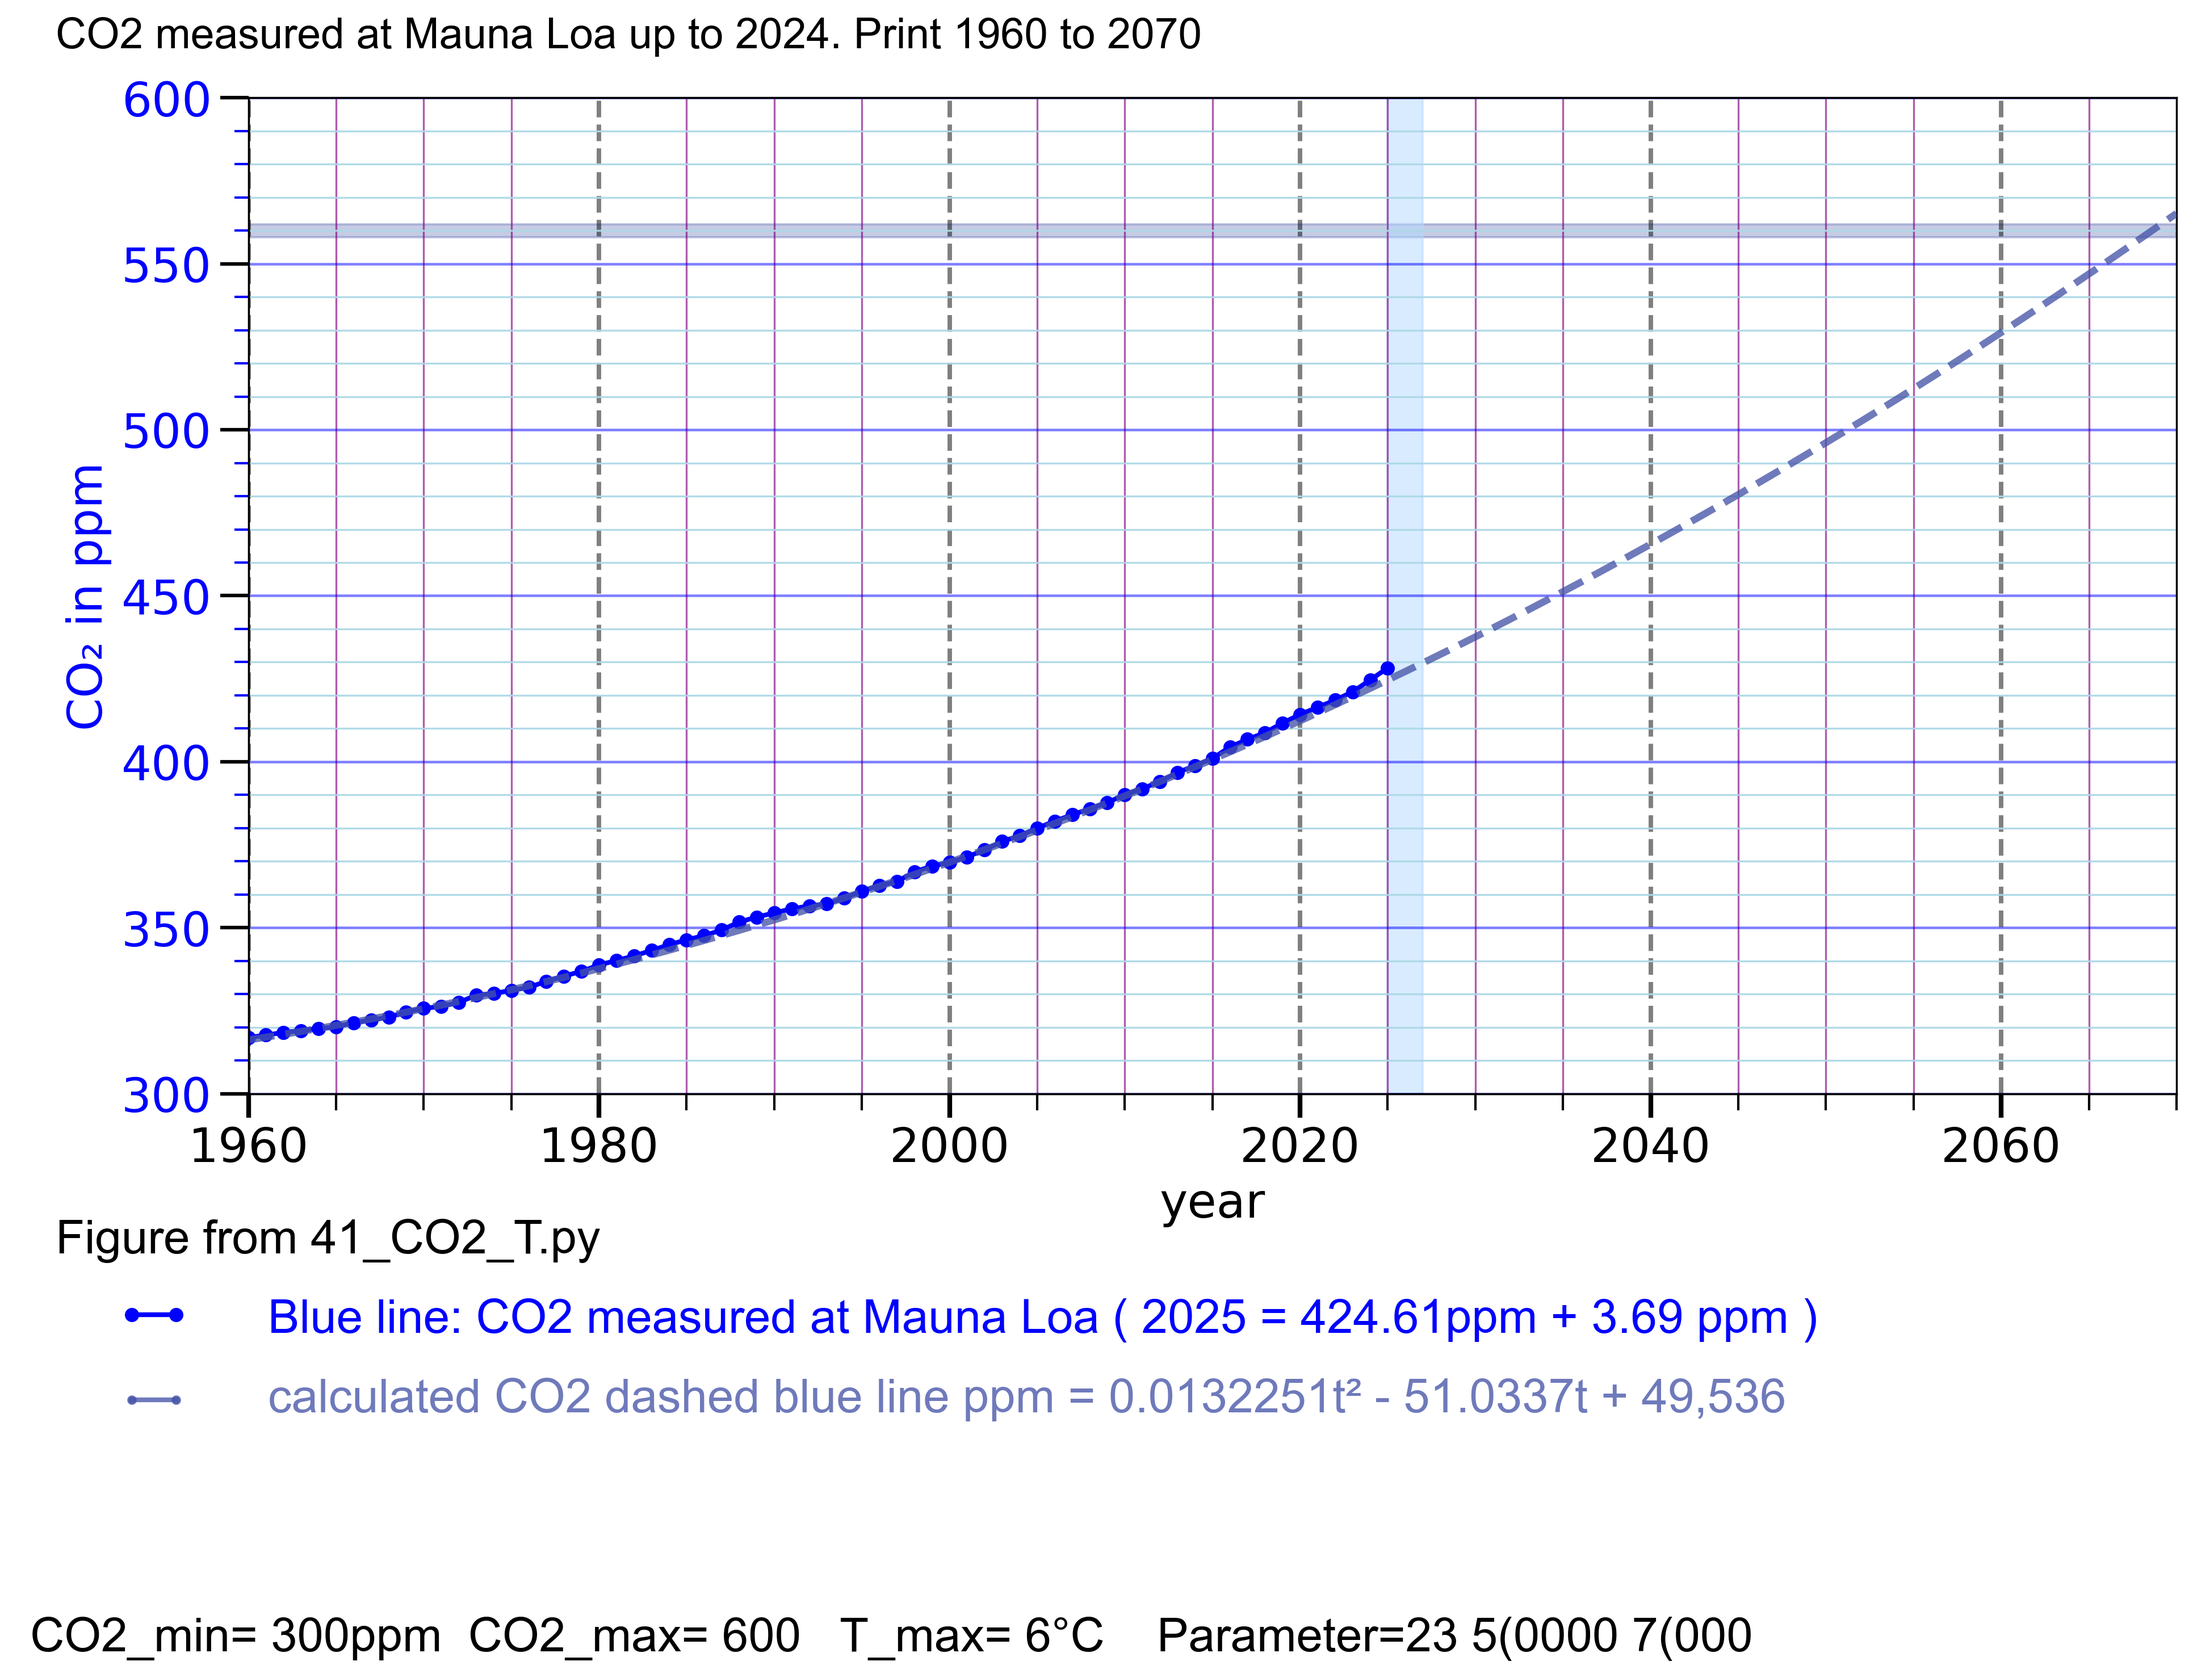
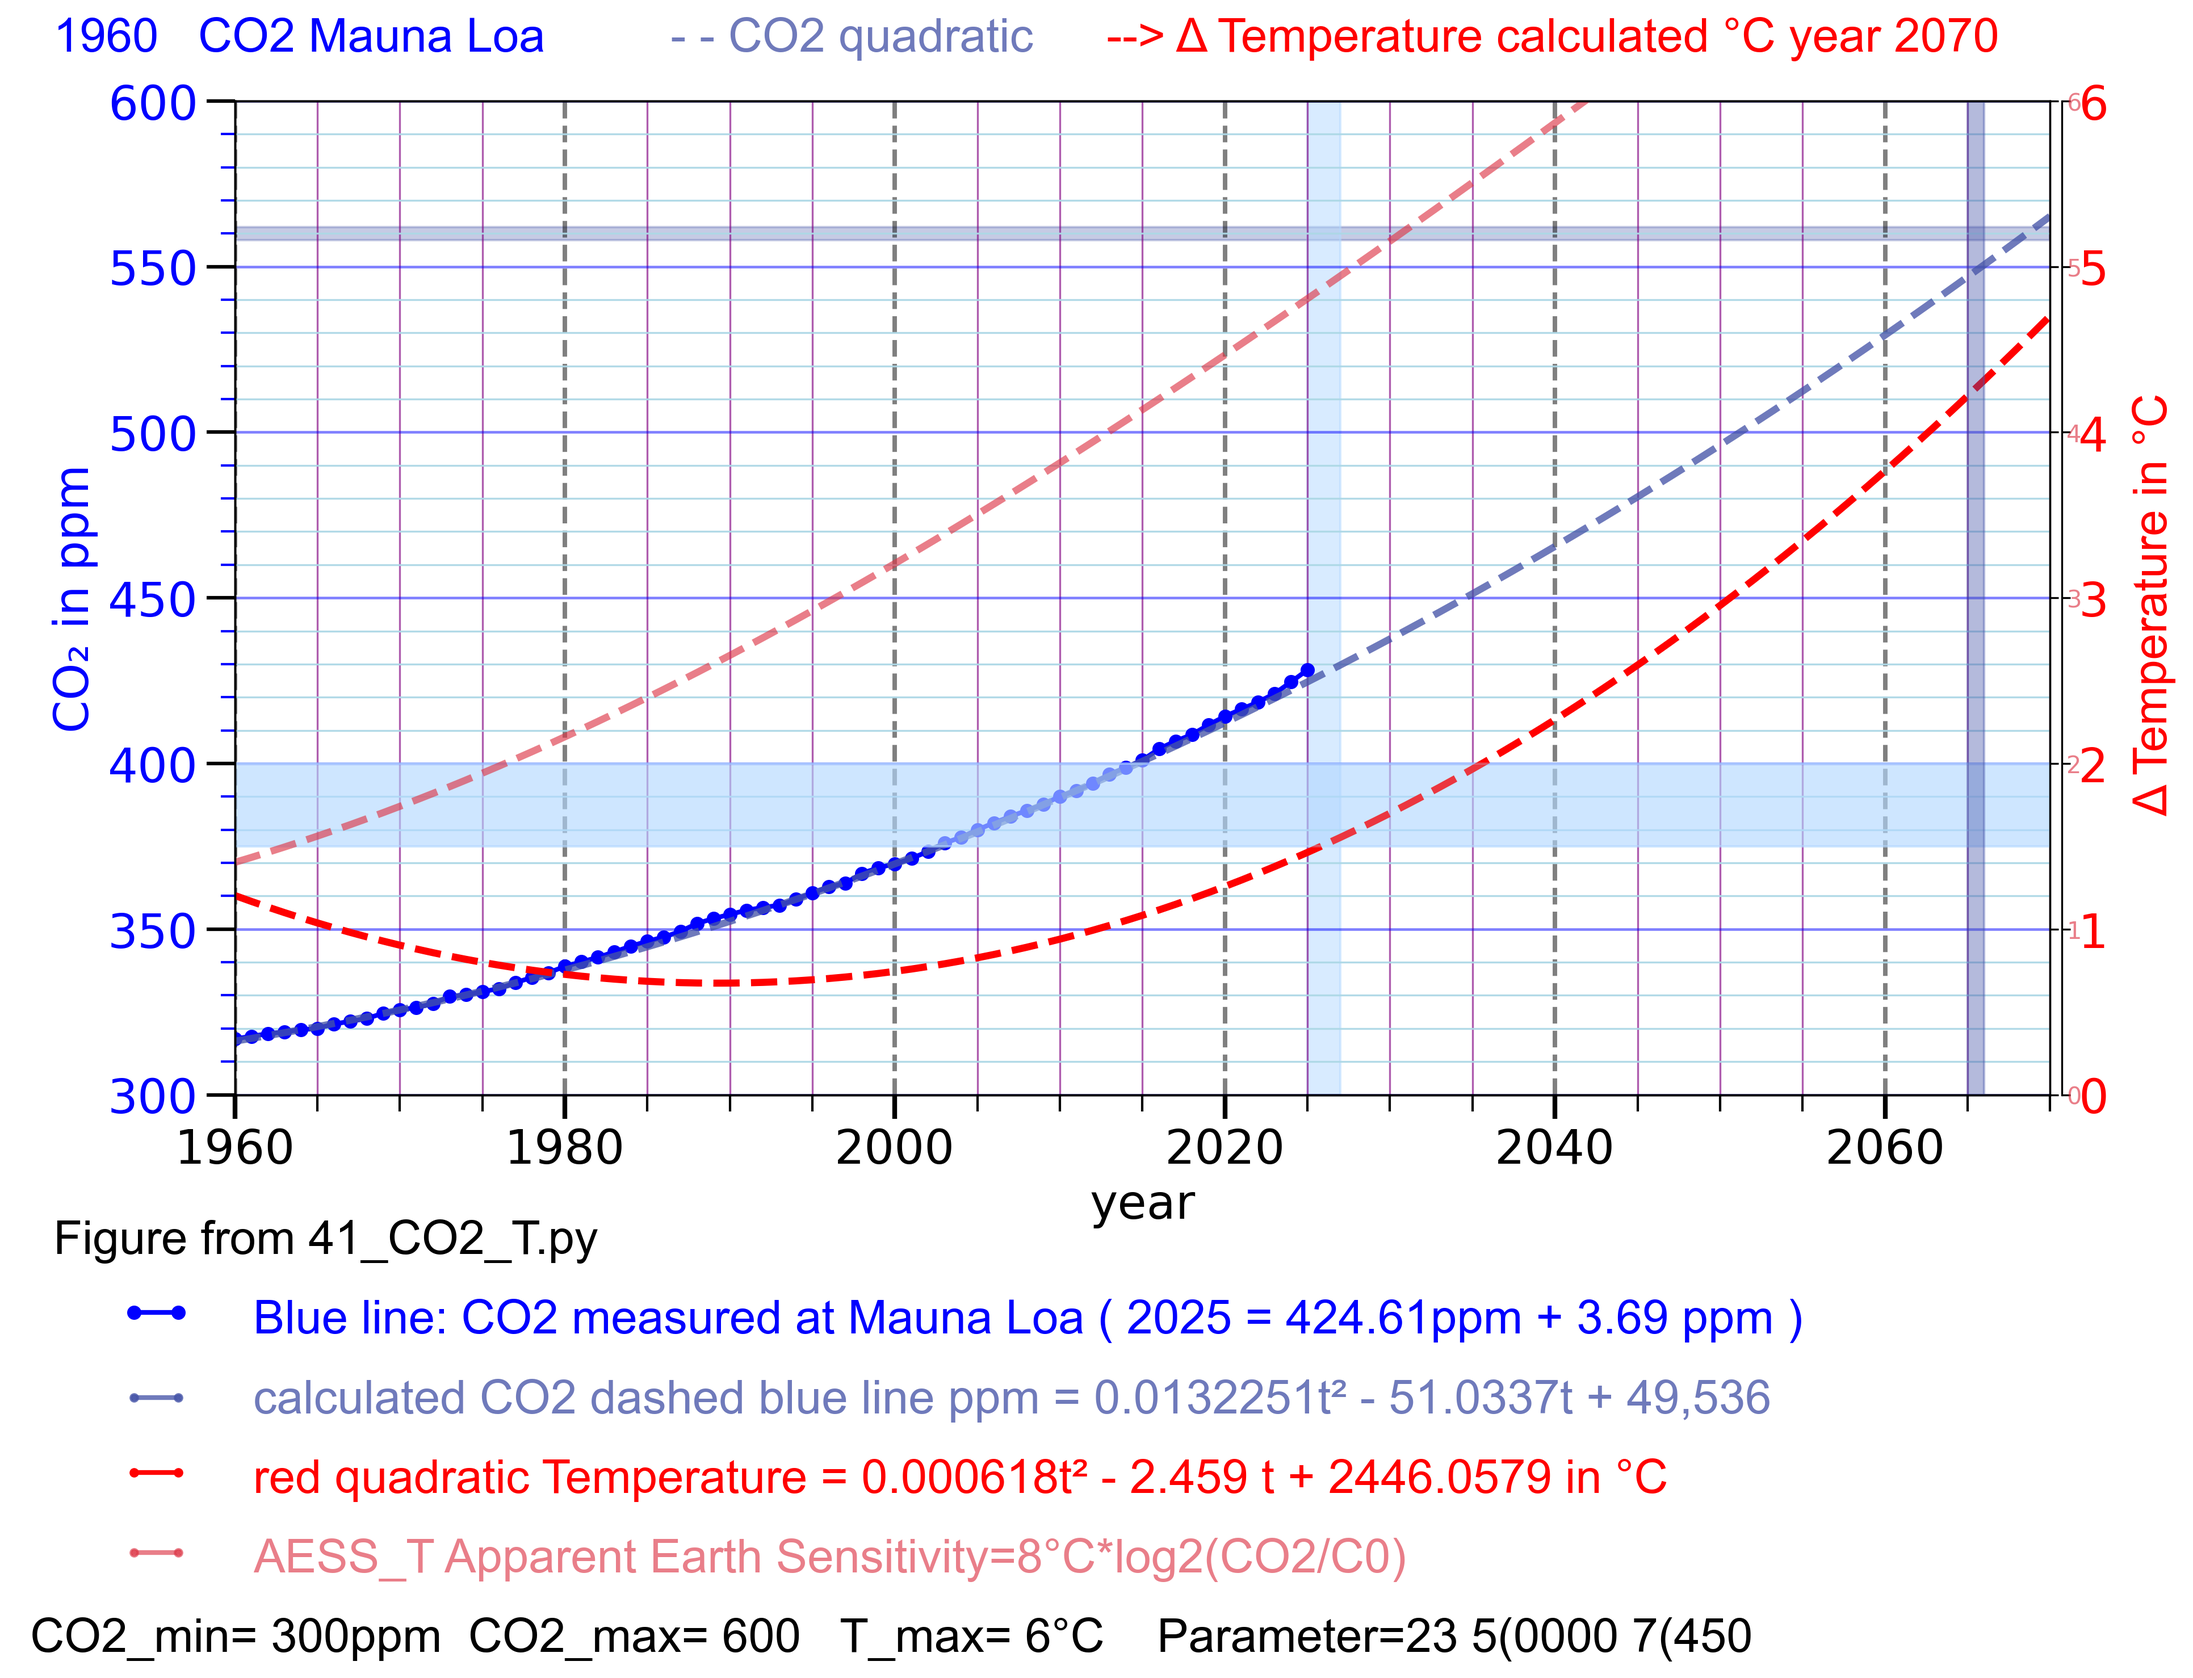
41v2_CO2_T.py 72 T

diff --git a/41_CO2_T.py b/41_CO2_T.py
@@ -1,4 +1,4 @@
-# 41v1_CO2_T.py 72 T
+# 41v2_CO2_T.py 72 T
 # Thomas Boettcher
 # part 1 configure 
 # part 2 plot CO2 Mauna Loa
@@ -373,10 +373,8 @@ if plot71_temperature > 0:
          labelpad=10   # smaller = closer to y axis
    )
    ax71.tick_params(axis="y", labelcolor=c71, labelsize=20)
-# 7.1.9 draw blue 1.5°C bar
-if plot71_temperature > 0:
-   ax71.axhspan(1.5, 2.0, color="#B3D9FF", alpha=0.5, zorder=0) # color="lightblue" 2°C streifen
 # end 7.1 
+
 
 # plot72_AESS_T= 4 # apparent Earth system sensitivity (AESS=7.7°C)
 red72_text="AESS_T Apparent Earth System Sensitivity = 8°C * log2(CO2/C0)"
@@ -419,10 +417,8 @@ if plot72_AESS_T > 0 and plot71_temperature < 1:
    )
    ax72.tick_params(axis="y", labelcolor=c72, labelsize=20)
 # 7.2.6 plot72_temperature
-if plot72_AESS_T > 0:
+if plot72_AESS_T > 9:
    ax72.set_ylim(y_Tmin, y_Tmax) # scale
-   ax72.axhspan(1.5, 2.0, color="#B3D9FF", alpha=0.25, zorder=0) # color="lightblue" 2°C streifen
-   # c3 = "#4554A8C6"
    ax72.axvspan(2065, 2066, color=c3, alpha=0.4, zorder=0) # vertical bar'
    ax72.axvspan(2174, 2175, color=c3, alpha=0.25, zorder=0) # vertical bar'
    ax72.minorticks_off()
@@ -569,6 +565,13 @@ for line in ax1.get_ygridlines():    # horizontal lines
        line.set_linewidth(1.1)   # <-- thickness
 # 8.4.4 horizontal minor grid all 10ppm
 ax1.grid(True, which="minor", axis="y", color="lightblue", alpha=0.94)   # horizontal
+# 8.4.5 draw blue 1.5°C bar
+if plot71_temperature > 0:
+   ax71.axhspan(1.5, 2.0, color="#B3D9FF", alpha=0.5, zorder=0) # color="lightblue" 2°C streifen
+elif plot72_AESS_T > 0:
+   ax72.axhspan(1.5, 2.0, color="#B3D9FF", alpha=0.5, zorder=0) # color="lightblue" 2°C streifen
+
+
 
 # 8.5 print the x axis 
 # 8.5.1 print year below the year numbers 
@@ -609,6 +612,9 @@ for line in ax1.get_xgridlines():   # vertical lines
 ax1.grid(True, which="minor", axis="x", color="purple", alpha=0.64)   # work vertical 5 years
 # 8.6.3 vertical line at year 2026
 ax1.axvspan(2025, 2027, color="#B3D9FF", alpha=0.5, zorder=0) # vertical bar'
+# 8.6.4
+ax72.axvspan(2065, 2066, color=c3, alpha=0.4, zorder=0) # vertical bar'
+ax72.axvspan(2174, 2175, color=c3, alpha=0.25, zorder=0) # vertical bar'
 # end part 8
 
 
